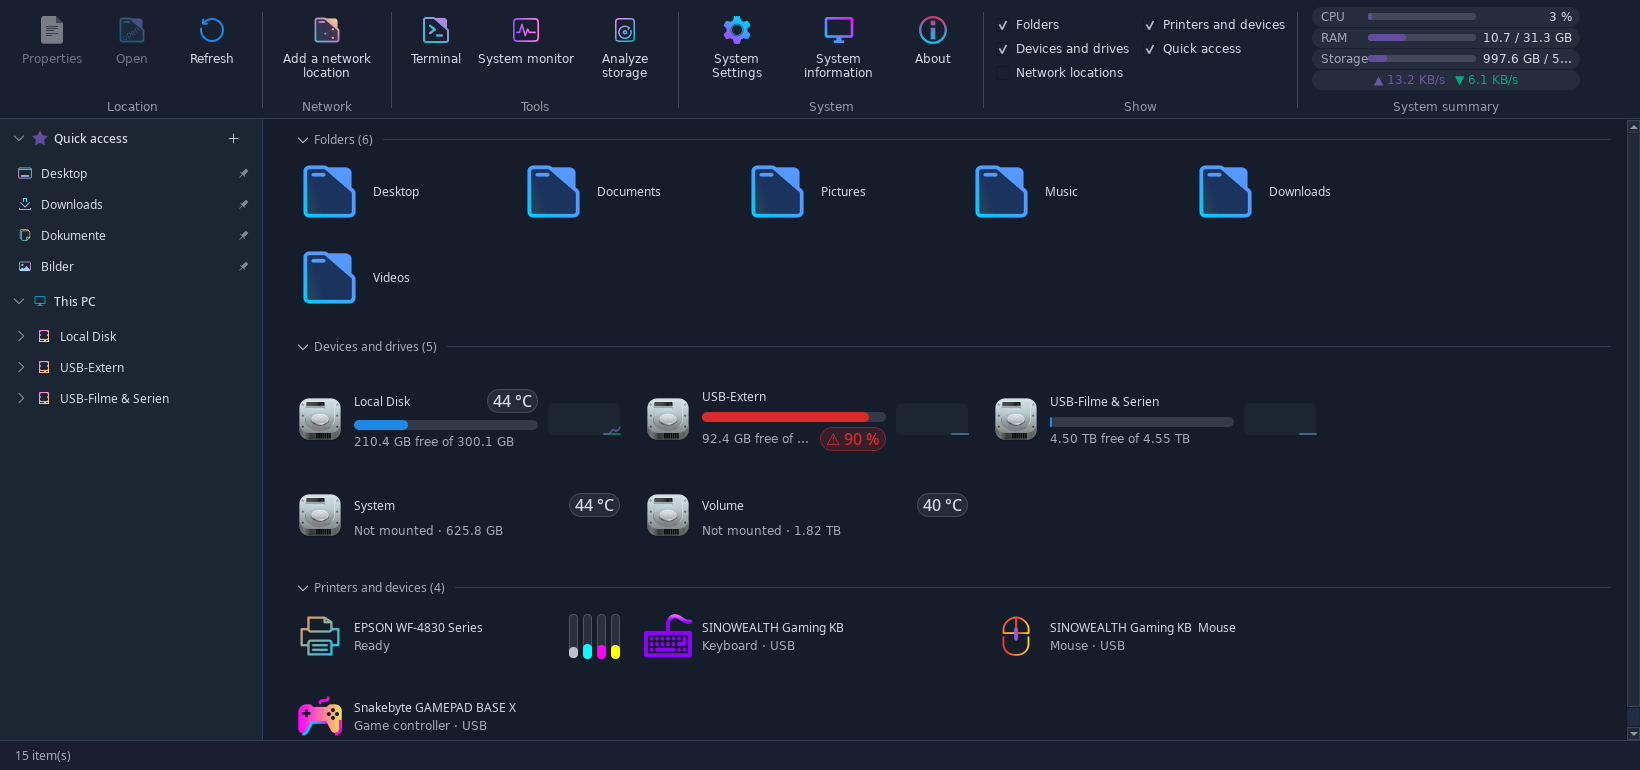
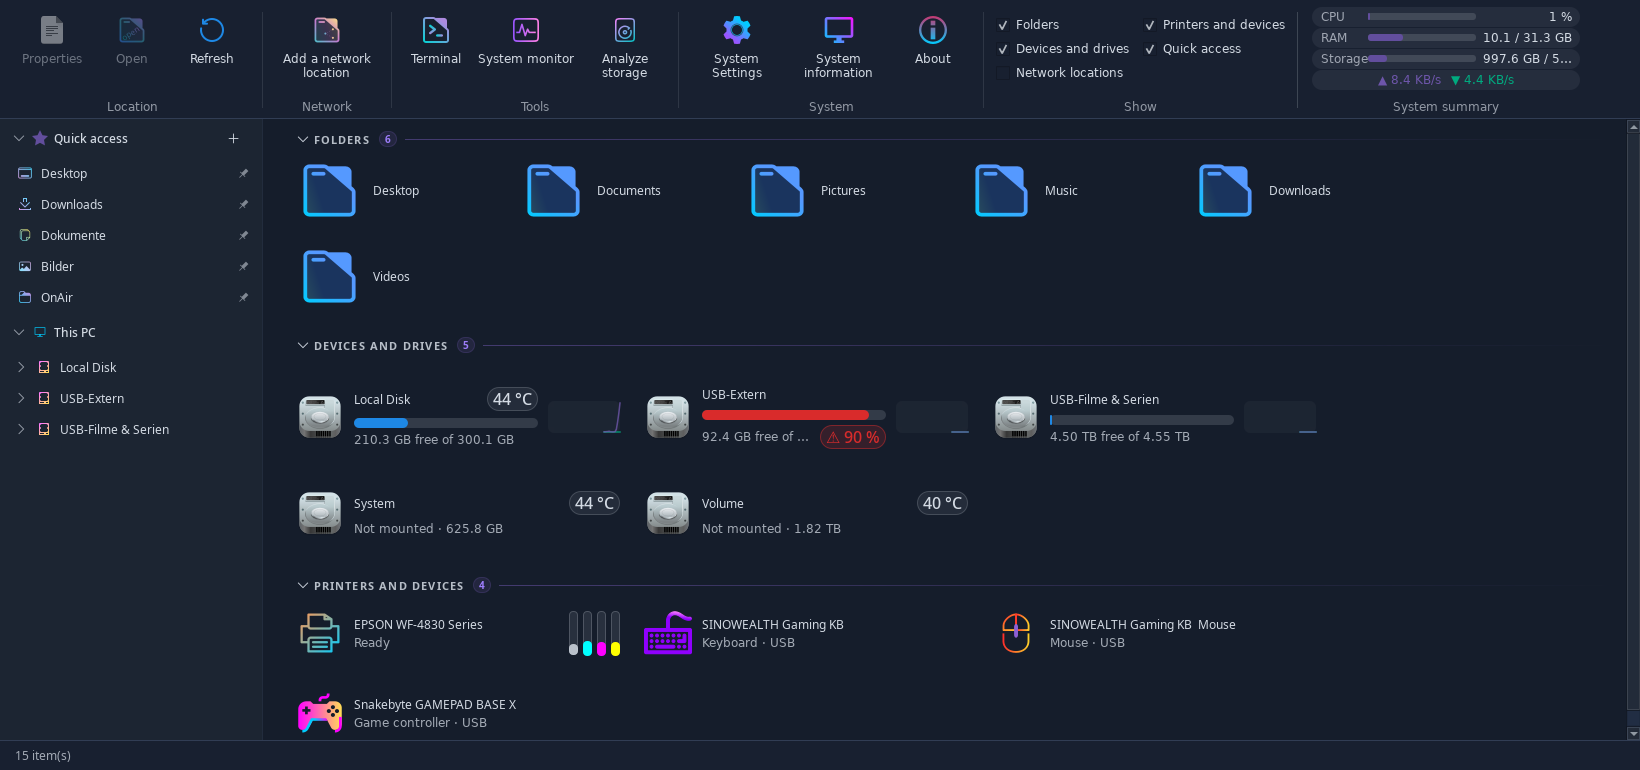
Modernize section headers and soften dividers; refresh preview

diff --git a/drivedeck.py b/drivedeck.py
@@ -3497,6 +3497,46 @@ QQC2.ApplicationWindow {
     color: Kirigami.Theme.backgroundColor
 
     // rubriquesMemo (Ce PC 1.1) : repli de chaque rubrique et rubriques affichées, retenus d'une ouverture à l'autre
+    // Sektionskopf : Titel in Versalien, Anzahl als Pille im Akzentton, danach ein Verlauf, der nach rechts ausblendet
+    component SectionTitle: RowLayout {
+        property string fmt: ""
+        property int count: 0
+        readonly property color accent: Kirigami.Theme.highlightColor
+        spacing: 8
+        QQC2.Label {
+            text: fmt.replace(" ({n})", "").replace("({n})", "").toUpperCase()
+            font.bold: true
+            font.letterSpacing: 1.2
+            font.pointSize: Math.max(7, Kirigami.Theme.defaultFont.pointSize * 0.9)
+            opacity: 0.85
+        }
+        Rectangle {
+            implicitWidth: Math.max(implicitHeight, pillText.implicitWidth + 12)
+            implicitHeight: pillText.implicitHeight + 2
+            radius: height / 2
+            color: Qt.rgba(accent.r, accent.g, accent.b, 0.18)
+            border.width: 1
+            border.color: Qt.rgba(accent.r, accent.g, accent.b, 0.4)
+            QQC2.Label {
+                id: pillText
+                anchors.centerIn: parent
+                text: count
+                font.bold: true
+                font.pointSize: Math.max(7, Kirigami.Theme.defaultFont.pointSize * 0.85)
+                color: Qt.lighter(accent, 1.6)
+            }
+        }
+        Rectangle {
+            Layout.fillWidth: true
+            Layout.preferredHeight: 1
+            gradient: Gradient {
+                orientation: Gradient.Horizontal
+                GradientStop { position: 0.0; color: Qt.rgba(accent.r, accent.g, accent.b, 0.6) }
+                GradientStop { position: 1.0; color: Qt.rgba(accent.r, accent.g, accent.b, 0.0) }
+            }
+        }
+    }
+
     property bool foldersCollapsed: sectInit.folders.collapsed
     property bool disksCollapsed: sectInit.disks.collapsed
     property bool netCollapsed: sectInit.net.collapsed
@@ -5017,7 +5057,7 @@ QQC2.ApplicationWindow {
                                 Layout.leftMargin: 8
                                 Layout.rightMargin: 8
                                 color: Qt.rgba(Kirigami.Theme.textColor.r, Kirigami.Theme.textColor.g,
-                                               Kirigami.Theme.textColor.b, 0.2)
+                                               Kirigami.Theme.textColor.b, 0.12)
                                 // Die Seitenleiste endet genau auf der ersten Trennlinie (neben « Aktualisieren »)
                                 Component.onCompleted: if (index === 0) { win.firstGrp = grp; win.firstSep = grpSep }
                             }
@@ -5242,7 +5282,7 @@ QQC2.ApplicationWindow {
                 anchors.bottom: parent.bottom
                 width: visible ? win.sideWidth : 0
                 color: Qt.rgba(Kirigami.Theme.textColor.r, Kirigami.Theme.textColor.g, Kirigami.Theme.textColor.b, 0.04)
-                Kirigami.Separator { anchors.right: parent.right; height: parent.height }
+                Kirigami.Separator { anchors.right: parent.right; height: parent.height; opacity: 0.35 }
 
                 DropArea {   // Ordner aus Dolphin hineinziehen heftet sie an
                     anchors.fill: parent
@@ -5505,12 +5545,11 @@ QQC2.ApplicationWindow {
                                 Layout.preferredWidth: 14
                                 Layout.preferredHeight: 14
                             }
-                            QQC2.Label {
-                                text: win.trad("Folders ({n})").replace("{n}", foldersModel.length)
-                                opacity: 0.75
-                                Layout.rightMargin: 6
+                            SectionTitle {
+                                Layout.fillWidth: true
+                                fmt: win.trad("Folders ({n})")
+                                count: foldersModel.length
                             }
-                            Kirigami.Separator { Layout.fillWidth: true }
                         }
                         MouseArea {   // flecheSeule : seule la flèche replie la rubrique
                             anchors.left: parent.left
@@ -5662,12 +5701,11 @@ QQC2.ApplicationWindow {
                                 Layout.preferredWidth: 14
                                 Layout.preferredHeight: 14
                             }
-                            QQC2.Label {
-                                text: win.trad("Devices and drives ({n})").replace("{n}", backend.disks.length)
-                                opacity: 0.75
-                                Layout.rightMargin: 6
+                            SectionTitle {
+                                Layout.fillWidth: true
+                                fmt: win.trad("Devices and drives ({n})")
+                                count: backend.disks.length
                             }
-                            Kirigami.Separator { Layout.fillWidth: true }
                         }
                         MouseArea {   // flecheSeule : seule la flèche replie la rubrique
                             anchors.left: parent.left
@@ -6033,12 +6071,11 @@ QQC2.ApplicationWindow {
                                 Layout.preferredWidth: 14
                                 Layout.preferredHeight: 14
                             }
-                            QQC2.Label {
-                                text: win.trad("Network locations ({n})").replace("{n}", backend.networks.length)
-                                opacity: 0.75
-                                Layout.rightMargin: 6
+                            SectionTitle {
+                                Layout.fillWidth: true
+                                fmt: win.trad("Network locations ({n})")
+                                count: backend.networks.length
                             }
-                            Kirigami.Separator { Layout.fillWidth: true }
                         }
                         MouseArea {   // flecheSeule : seule la flèche replie la rubrique
                             anchors.left: parent.left
@@ -6311,12 +6348,11 @@ QQC2.ApplicationWindow {
                                 Layout.preferredWidth: 14
                                 Layout.preferredHeight: 14
                             }
-                            QQC2.Label {
-                                text: win.trad("Printers and devices ({n})").replace("{n}", backend.printers.length)
-                                opacity: 0.75
-                                Layout.rightMargin: 6
+                            SectionTitle {
+                                Layout.fillWidth: true
+                                fmt: win.trad("Printers and devices ({n})")
+                                count: backend.printers.length
                             }
-                            Kirigami.Separator { Layout.fillWidth: true }
                         }
                         MouseArea {   // flecheSeule : seule la flèche replie la rubrique
                             anchors.left: parent.left

diff --git a/CHANGELOG.md b/CHANGELOG.md
@@ -118,6 +118,12 @@ hidden and everything else works).
 - `pin_normaliser`: pins are compared with `~` expanded and trailing slashes removed; symbolic links are **not** resolved
   on purpose (a pin keeps the path you chose, a stick mounted at another path stays a separate entry); case counts.
 
+### Look
+
+- Section headers ("Folders", "Devices and drives", …) are now upper-case with wider letter spacing, show the item count
+  as a small accent pill and continue with a line that fades out to the right (new `SectionTitle` component).
+- Softer dividers: the line between sidebar and content and the ribbon group separators are fainter.
+
 ### Performance and robustness (review pass)
 
 - Final refinements: `_agesa()` skips `dmesg` when `kernel.dmesg_restrict=1` and reports "not exposed by the kernel"; NumPy
